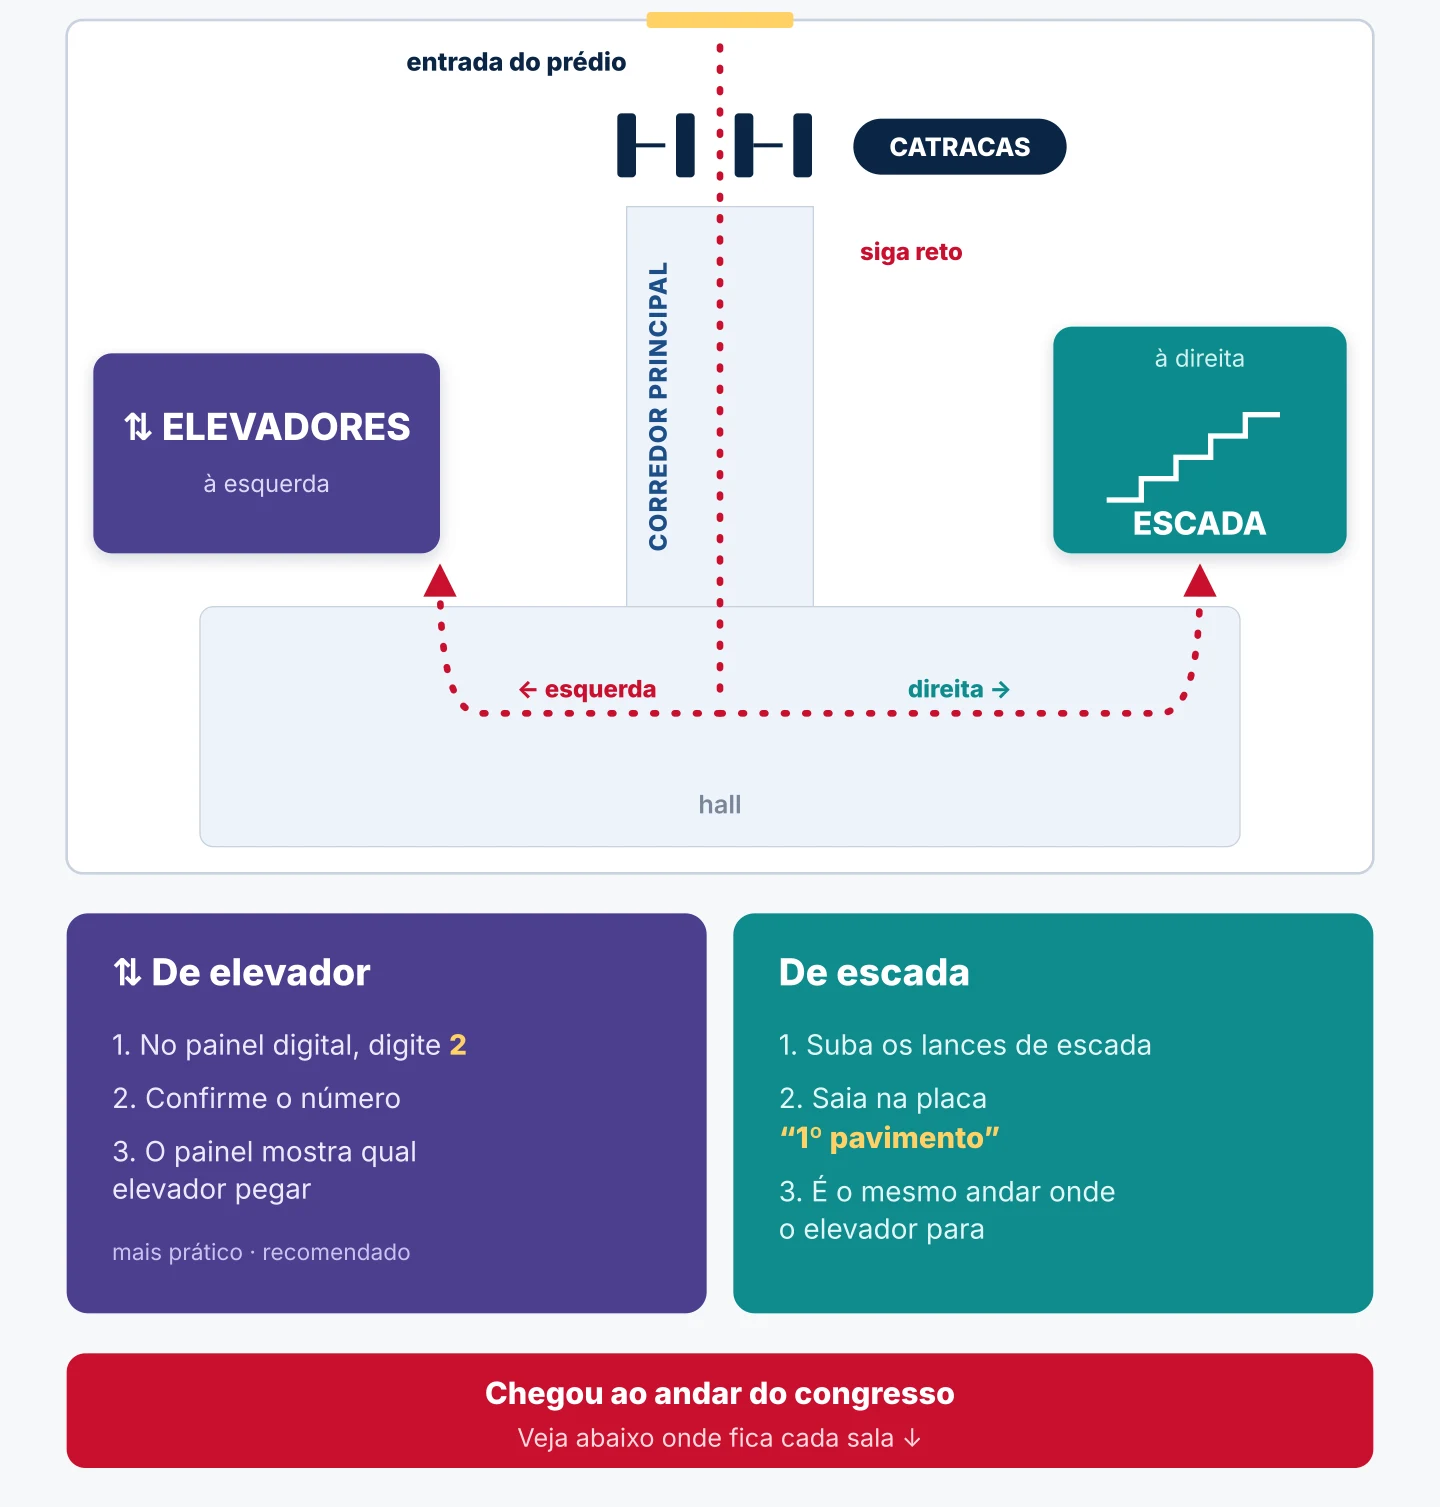
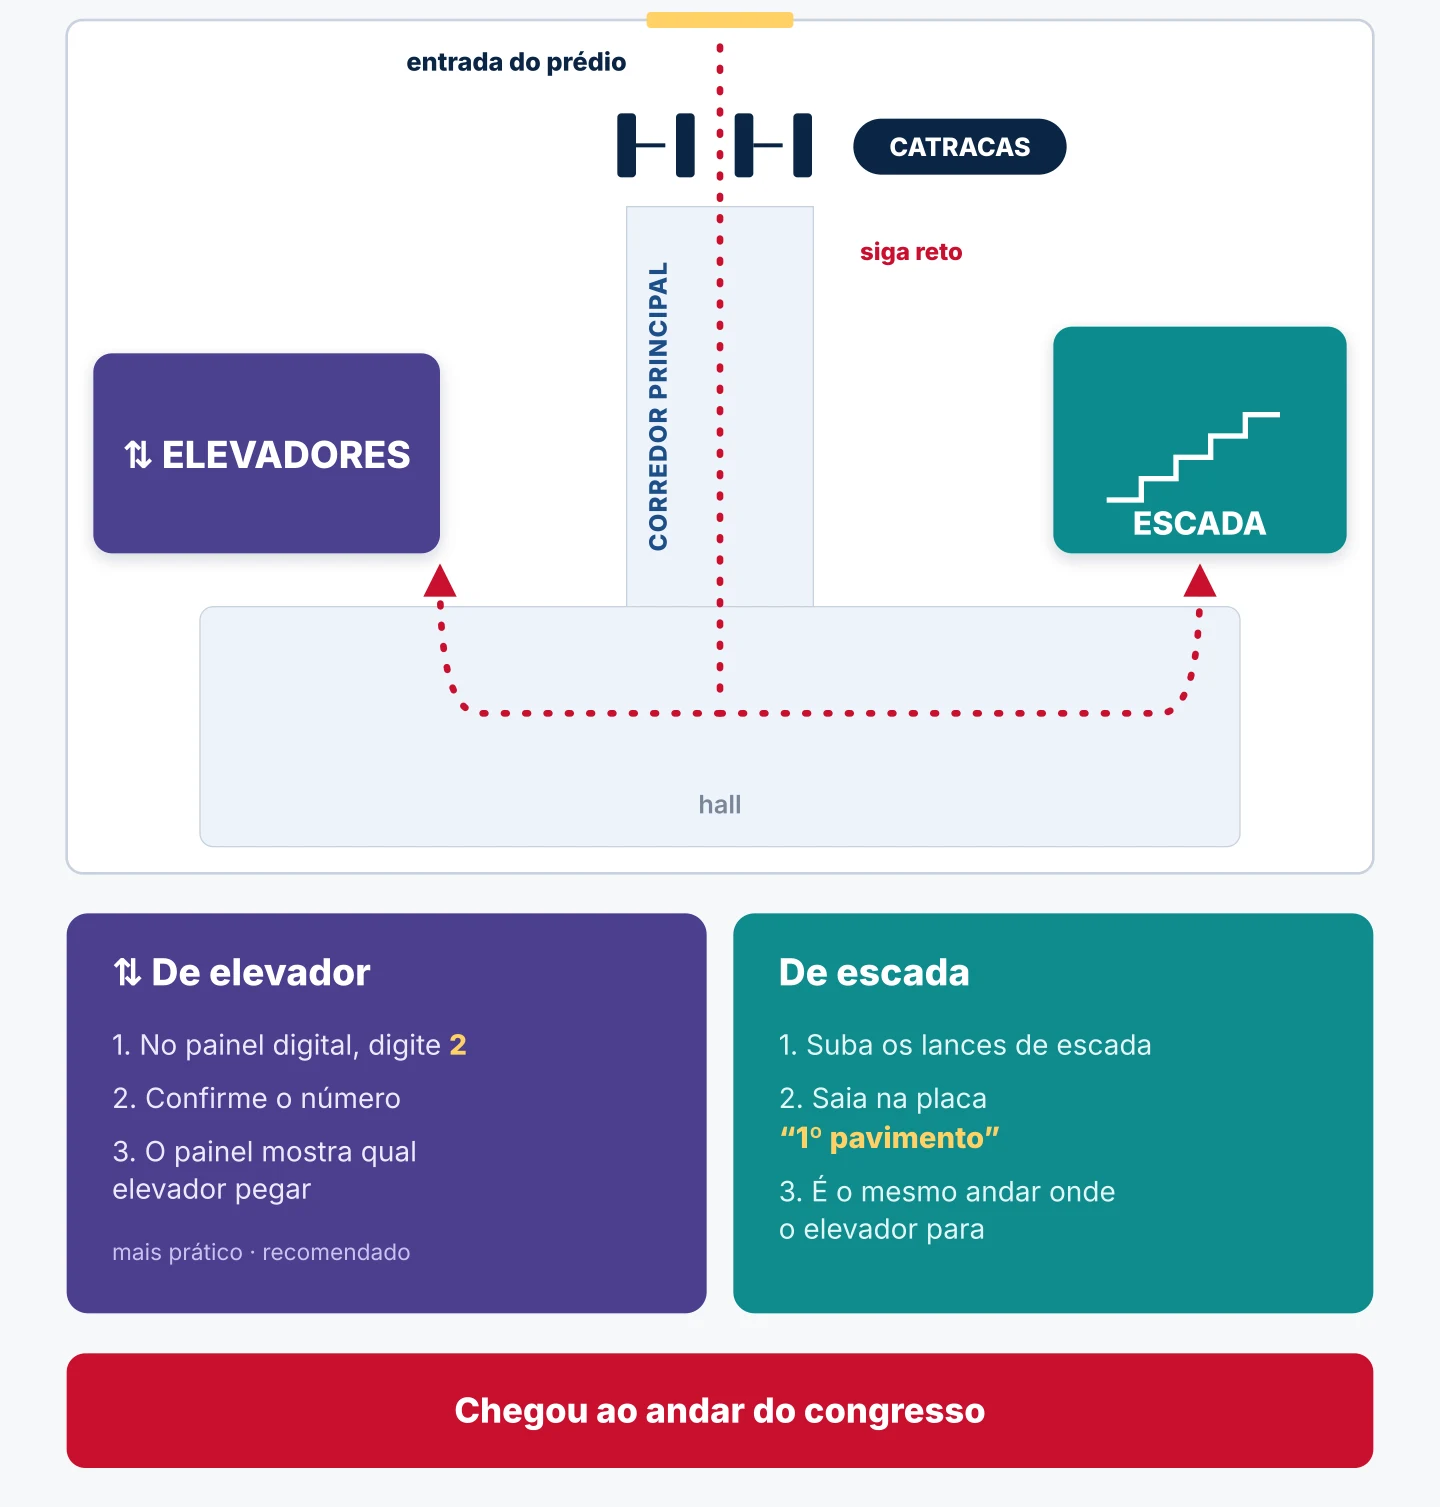
Como chegar: remove indicações de esquerda/direita e referência à lâmina 3
Claude-Session: https://claude.ai/code/session_0182YZMBjuu2gUD5tf6GjHNw

diff --git a/como-chegar/index.html b/como-chegar/index.html
@@ -97,9 +97,9 @@ footer{font-size:13.5px;color:var(--muted);text-align:center;padding-top:8px}
 
 <section class="step" id="elevador">
   <h2><i>1</i> Do prédio ao elevador</h2>
-  <p>Ao entrar no prédio, passe pelas catracas e siga reto pelo corredor principal até o hall. Os elevadores ficam à esquerda e a escada, à direita.</p>
+  <p>Ao entrar no prédio, passe pelas catracas e siga reto pelo corredor principal até o hall, onde ficam os elevadores e a escada.</p>
   <figure>
-    <a href="elevador.webp" target="_blank" rel="noopener"><img src="elevador.webp" alt="Esquema do térreo: entrada do prédio, catracas, corredor principal e hall; elevadores à esquerda e escada à direita" width="1440" height="1507" loading="lazy"></a>
+    <a href="elevador.webp" target="_blank" rel="noopener"><img src="elevador.webp" alt="Esquema do térreo: entrada do prédio, catracas, corredor principal e hall com elevadores e escada" width="1440" height="1507" loading="lazy"></a>
     <figcaption>Toque na imagem para ampliar</figcaption>
   </figure>
   <div class="how">
